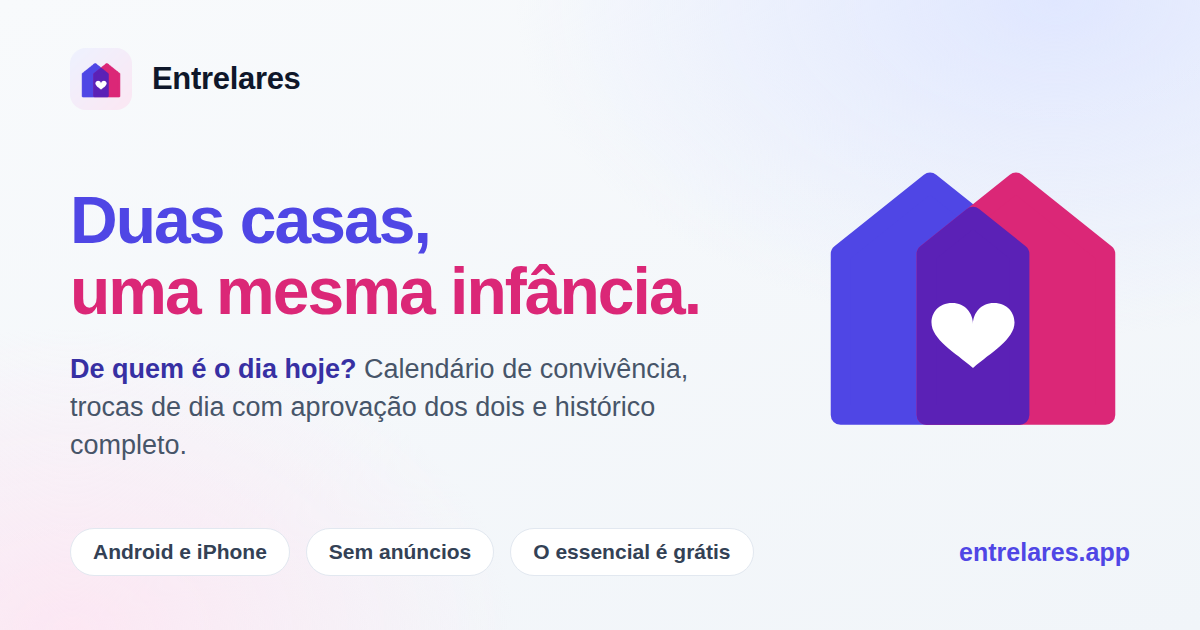
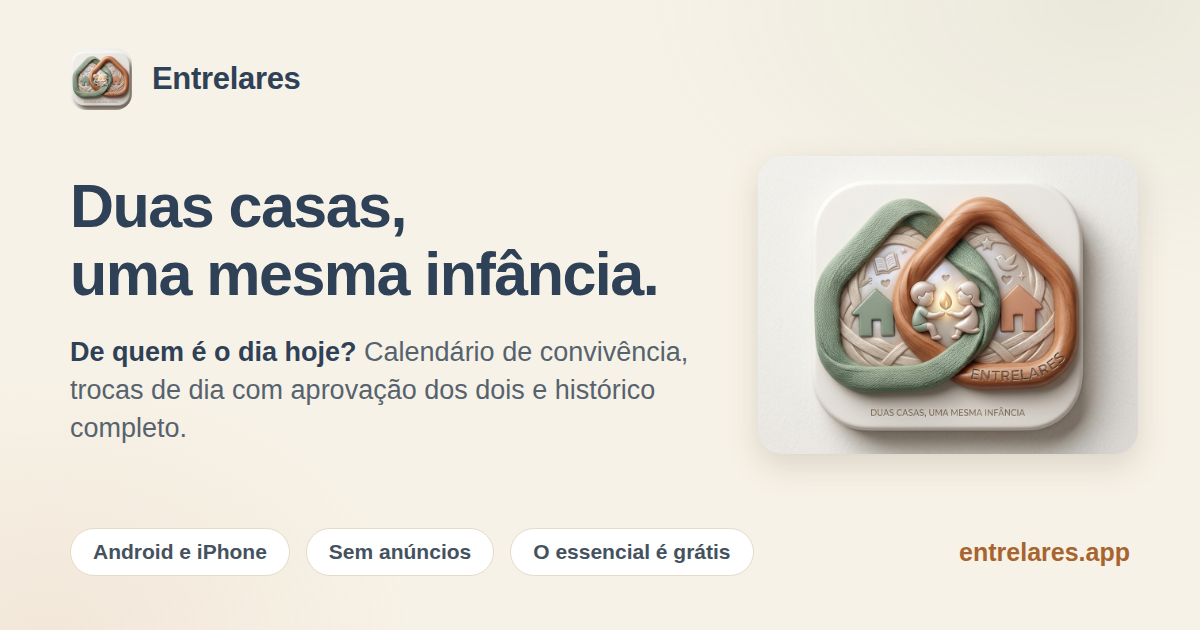
feat(marca): identidade visual oficial — o Emblema Entrelares (F-54)
A arte final aprovada pelo owner (gerada por IA a partir dos conceitos "O
Laço"/"Emblema") vira o master da identidade do site: dois anéis-casa
entrelaçados como elos — sálvia (tecido) e terracota (madeira) — sobre placa
squircle creme, com casinhas em relevo, duas crianças acendendo uma chama na
junção, "ENTRELARES" gravado e o tagline na placa.

- assets-src/brand-emblema.png: master oficial (sem fonte vetorial —
  mudanças pedem nova geração; o repo do app carrega cópia própria em
  store/)
- assets-src/brand-icons.py: derivação reproduzível de favicon.png,
  icon-192.png e icon-512.png (recorte quadrado 730px centrado na placa)
- Banners OG PT/EN re-renderizados com a arte emoldurada (cartão com sombra
  sobre o layout creme/navy, tagline como headline, chips e domínio)
- Substitui o gerador vetorial assets-src/icon-entrelares.html desta mesma
  entrega; ?v=5 nos refs de ícone e og:image?v=2 seguem valendo

Backlog: F-54

diff --git a/assets-src/og-cover-en.html b/assets-src/og-cover-en.html
@@ -6,15 +6,19 @@
 <!--
   L-16/F-54 — generator for public/og-cover-en.png (the English social-sharing banner).
 
-  New visual identity (F-54): light theme, the two-houses mark and the brand tagline
-  as the headline. The <g id="mark"> block is duplicated from icon-entrelares.html —
-  keep them identical when the mark changes. The brand-row icon is the RENDERED
-  public/icon-192.png, so it always matches the shipped icon.
+  Identity "O Emblema" (F-54): the official brand artwork (assets-src/
+  brand-emblema.png, AI-generated, approved by the owner — no vector source) shown
+  as a framed card on the cream layout, navy #2F4156 for text. The card's
+  background-size/position crop the source's (219,0)-(1178,752) window; recompute
+  them if the artwork or the card size changes (bg-size = 1380*W/959, bg-pos-x =
+  -219*W/959). The brand-row icon is the RENDERED public/icon-192.png, so it always
+  matches the shipped icon (see assets-src/brand-icons.py). The PT-BR banner
+  (public/og-cover.png, og-cover.html) carries Portuguese text, so reusing it on
+  /en/ would show a Portuguese preview to exactly the reader the English page
+  exists for. (The artwork itself carries the PT tagline engraved — it is the brand
+  plaque, kept identical in both banners on purpose.)
 
   NOT served: this file lives in assets-src/, like the lead-magnet PDF generator.
-  The PT-BR banner (public/og-cover.png, og-cover.html) carries Portuguese text, so
-  reusing it on /en/ would show a Portuguese preview to exactly the reader the
-  English page exists for.
 
   Render with headless Chrome/Edge at the Open Graph size (1200x630):
 
@@ -31,19 +35,18 @@
     python3 -c "from PIL import Image; Image.open('/tmp/shot.png').crop((0,0,1200,630))\
     .convert('RGB').save('public/og-cover-en.png', optimize=True)"
 
-  Re-render whenever the English hero copy or the mark changes.
+  Re-render whenever the English hero copy or the artwork changes.
 -->
 <style>
   * { margin: 0; padding: 0; box-sizing: border-box; }
   html, body { width: 1200px; height: 630px; overflow: hidden; }
   body {
     font-family: "Segoe UI", "Liberation Sans", system-ui, -apple-system, Roboto, Helvetica, Arial, sans-serif;
-    background: #f8fafc;
+    background: #f7f2e7;
     background-image:
-      radial-gradient(900px 560px at 88% 0%, #e0e7ff 0%, rgba(224,231,255,0) 60%),
-      radial-gradient(760px 520px at 6% 100%, #fce7f3 0%, rgba(252,231,243,0) 58%),
-      linear-gradient(160deg, #f8fafc 0%, #f1f5f9 100%);
-    color: #0f172a;
+      radial-gradient(760px 480px at 92% 0%, rgba(118,143,122,0.10) 0%, rgba(118,143,122,0) 60%),
+      radial-gradient(640px 440px at 4% 100%, rgba(212,160,129,0.14) 0%, rgba(212,160,129,0) 58%);
+    color: #2f4156;
     padding: 48px 70px 54px;
     position: relative;
   }
@@ -54,48 +57,40 @@
   .brand img { width: 62px; height: 62px; border-radius: 16px; display: block; }
   .brand span { font-size: 31px; font-weight: 700; letter-spacing: -0.01em; }
 
-  .mid { position: absolute; top: 185px; left: 70px; right: 460px; }
+  .mid { position: absolute; top: 172px; left: 70px; right: 470px; }
   h1 {
-    font-size: 66px; font-weight: 800; line-height: 1.08; letter-spacing: -0.03em;
-    margin-bottom: 22px;
+    font-size: 61px; font-weight: 800; line-height: 1.12; letter-spacing: -0.025em;
+    color: #2f4156; margin-bottom: 24px;
   }
-  h1 .homes { color: #4f46e5; }
-  h1 .childhood { color: #db2777; }
-  .sub { font-size: 27px; line-height: 1.42; color: #475569; }
-  .sub b { color: #3730a3; font-weight: 700; }
+  .sub { font-size: 27px; line-height: 1.42; color: #56636e; }
+  .sub b { color: #2f4156; font-weight: 700; }
 
-  .art { position: absolute; top: 168px; right: 62px; }
-  .art svg { width: 330px; height: 272px; display: block; }
+  /* the brand plaque, framed: source window (219,0)-(1178,752) of the 1380px art */
+  .art {
+    position: absolute; top: 156px; right: 62px;
+    width: 380px; height: 298px;
+    border-radius: 24px; overflow: hidden;
+    box-shadow: 0 12px 32px rgba(93, 79, 54, 0.18);
+    background: url(brand-emblema.png) no-repeat #eeece7;
+    background-size: 547px auto;
+    background-position: -87px 0;
+  }
 
   .foot { position: absolute; bottom: 54px; left: 70px; right: 70px;
           display: flex; align-items: center; gap: 16px; }
   .chip {
     background: #ffffff;
-    border: 1px solid #e2e8f0;
+    border: 1px solid #e4dcc8;
     border-radius: 999px;
     padding: 11px 22px;
     font-size: 21px;
     font-weight: 600;
-    color: #334155;
+    color: #44525e;
   }
-  .domain { margin-left: auto; font-size: 25px; font-weight: 700; color: #4f46e5; }
+  .domain { margin-left: auto; font-size: 25px; font-weight: 700; color: #a8642f; }
 </style>
 </head>
 <body>
-
-<svg width="0" height="0" style="position:absolute">
-  <defs>
-    <!-- keep identical to assets-src/icon-entrelares.html -->
-    <g id="mark" stroke-linejoin="round">
-      <path d="M108 210 L208 130 L308 210 L308 390 L108 390 Z" fill="#4f46e5" stroke="#4f46e5" stroke-width="22"/>
-      <path d="M204 210 L304 130 L404 210 L404 390 L204 390 Z" fill="#db2777" stroke="#db2777" stroke-width="22"/>
-      <path d="M204 210 L256 168.4 L308 210 L308 390 L204 390 Z" fill="#5b21b6" stroke="#5b21b6" stroke-width="22"/>
-      <g transform="translate(256,262) scale(1.45)">
-        <path d="M0 18 C 0 10 -6 2 -16 2 C -27 2 -32 10 -32 17 C -32 30 -14 40 0 52 C 14 40 32 30 32 17 C 32 10 27 2 16 2 C 6 2 0 10 0 18 Z" fill="#ffffff"/>
-      </g>
-    </g>
-  </defs>
-</svg>
 
 <div class="brand">
   <img src="../public/icon-192.png" alt="" />
@@ -103,13 +98,11 @@
 </div>
 
 <div class="mid">
-  <h1><span class="homes">Two homes,</span><br /><span class="childhood">one childhood.</span></h1>
+  <h1>Two homes,<br />one childhood.</h1>
   <p class="sub"><b>Whose day is it today?</b> A shared parenting calendar, day swaps approved by both, and a history nobody can erase.</p>
 </div>
 
-<div class="art">
-  <svg viewBox="86 114 340 304"><use href="#mark"/></svg>
-</div>
+<div class="art"></div>
 
 <div class="foot">
   <span class="chip">Android &amp; iPhone</span>

diff --git a/assets-src/og-cover.html b/assets-src/og-cover.html
@@ -6,12 +6,14 @@
 <!--
   F-54 — generator for public/og-cover.png (the PT-BR social-sharing banner).
 
-  New visual identity (F-54): light theme, the two-houses mark and the brand tagline
-  as the headline. Replaces the old dark-navy banner that still said "Guarda
-  Compartilhada" (which, until this file, had no generator in the repo). The
-  <g id="mark"> block is duplicated from icon-entrelares.html — keep them identical
-  when the mark changes. The brand-row icon is the RENDERED public/icon-192.png, so
-  it always matches the shipped icon. The English sibling is og-cover-en.html.
+  Identity "O Emblema" (F-54): the official brand artwork (assets-src/
+  brand-emblema.png, AI-generated, approved by the owner — no vector source) shown
+  as a framed card on the cream layout, navy #2F4156 for text. The card's
+  background-size/position crop the source's (219,0)-(1178,752) window; recompute
+  them if the artwork or the card size changes (bg-size = 1380*W/959, bg-pos-x =
+  -219*W/959). The brand-row icon is the RENDERED public/icon-192.png, so it always
+  matches the shipped icon (see assets-src/brand-icons.py). The English sibling is
+  og-cover-en.html.
 
   NOT served: this file lives in assets-src/, like the lead-magnet PDF generator.
 
@@ -30,19 +32,18 @@
     python3 -c "from PIL import Image; Image.open('/tmp/shot.png').crop((0,0,1200,630))\
     .convert('RGB').save('public/og-cover.png', optimize=True)"
 
-  Re-render whenever the hero copy or the mark changes.
+  Re-render whenever the hero copy or the artwork changes.
 -->
 <style>
   * { margin: 0; padding: 0; box-sizing: border-box; }
   html, body { width: 1200px; height: 630px; overflow: hidden; }
   body {
     font-family: "Segoe UI", "Liberation Sans", system-ui, -apple-system, Roboto, Helvetica, Arial, sans-serif;
-    background: #f8fafc;
+    background: #f7f2e7;
     background-image:
-      radial-gradient(900px 560px at 88% 0%, #e0e7ff 0%, rgba(224,231,255,0) 60%),
-      radial-gradient(760px 520px at 6% 100%, #fce7f3 0%, rgba(252,231,243,0) 58%),
-      linear-gradient(160deg, #f8fafc 0%, #f1f5f9 100%);
-    color: #0f172a;
+      radial-gradient(760px 480px at 92% 0%, rgba(118,143,122,0.10) 0%, rgba(118,143,122,0) 60%),
+      radial-gradient(640px 440px at 4% 100%, rgba(212,160,129,0.14) 0%, rgba(212,160,129,0) 58%);
+    color: #2f4156;
     padding: 48px 70px 54px;
     position: relative;
   }
@@ -53,48 +54,40 @@
   .brand img { width: 62px; height: 62px; border-radius: 16px; display: block; }
   .brand span { font-size: 31px; font-weight: 700; letter-spacing: -0.01em; }
 
-  .mid { position: absolute; top: 185px; left: 70px; right: 460px; }
+  .mid { position: absolute; top: 172px; left: 70px; right: 470px; }
   h1 {
-    font-size: 66px; font-weight: 800; line-height: 1.08; letter-spacing: -0.03em;
-    margin-bottom: 22px;
+    font-size: 61px; font-weight: 800; line-height: 1.12; letter-spacing: -0.025em;
+    color: #2f4156; margin-bottom: 24px;
   }
-  h1 .casas { color: #4f46e5; }
-  h1 .infancia { color: #db2777; }
-  .sub { font-size: 27px; line-height: 1.42; color: #475569; }
-  .sub b { color: #3730a3; font-weight: 700; }
+  .sub { font-size: 27px; line-height: 1.42; color: #56636e; }
+  .sub b { color: #2f4156; font-weight: 700; }
 
-  .art { position: absolute; top: 168px; right: 62px; }
-  .art svg { width: 330px; height: 272px; display: block; }
+  /* the brand plaque, framed: source window (219,0)-(1178,752) of the 1380px art */
+  .art {
+    position: absolute; top: 156px; right: 62px;
+    width: 380px; height: 298px;
+    border-radius: 24px; overflow: hidden;
+    box-shadow: 0 12px 32px rgba(93, 79, 54, 0.18);
+    background: url(brand-emblema.png) no-repeat #eeece7;
+    background-size: 547px auto;
+    background-position: -87px 0;
+  }
 
   .foot { position: absolute; bottom: 54px; left: 70px; right: 70px;
           display: flex; align-items: center; gap: 16px; }
   .chip {
     background: #ffffff;
-    border: 1px solid #e2e8f0;
+    border: 1px solid #e4dcc8;
     border-radius: 999px;
     padding: 11px 22px;
     font-size: 21px;
     font-weight: 600;
-    color: #334155;
+    color: #44525e;
   }
-  .domain { margin-left: auto; font-size: 25px; font-weight: 700; color: #4f46e5; }
+  .domain { margin-left: auto; font-size: 25px; font-weight: 700; color: #a8642f; }
 </style>
 </head>
 <body>
-
-<svg width="0" height="0" style="position:absolute">
-  <defs>
-    <!-- keep identical to assets-src/icon-entrelares.html -->
-    <g id="mark" stroke-linejoin="round">
-      <path d="M108 210 L208 130 L308 210 L308 390 L108 390 Z" fill="#4f46e5" stroke="#4f46e5" stroke-width="22"/>
-      <path d="M204 210 L304 130 L404 210 L404 390 L204 390 Z" fill="#db2777" stroke="#db2777" stroke-width="22"/>
-      <path d="M204 210 L256 168.4 L308 210 L308 390 L204 390 Z" fill="#5b21b6" stroke="#5b21b6" stroke-width="22"/>
-      <g transform="translate(256,262) scale(1.45)">
-        <path d="M0 18 C 0 10 -6 2 -16 2 C -27 2 -32 10 -32 17 C -32 30 -14 40 0 52 C 14 40 32 30 32 17 C 32 10 27 2 16 2 C 6 2 0 10 0 18 Z" fill="#ffffff"/>
-      </g>
-    </g>
-  </defs>
-</svg>
 
 <div class="brand">
   <img src="../public/icon-192.png" alt="" />
@@ -102,13 +95,11 @@
 </div>
 
 <div class="mid">
-  <h1><span class="casas">Duas casas,</span><br /><span class="infancia">uma mesma infância.</span></h1>
+  <h1>Duas casas,<br />uma mesma infância.</h1>
   <p class="sub"><b>De quem é o dia hoje?</b> Calendário de convivência, trocas de dia com aprovação dos dois e histórico completo.</p>
 </div>
 
-<div class="art">
-  <svg viewBox="86 114 340 304"><use href="#mark"/></svg>
-</div>
+<div class="art"></div>
 
 <div class="foot">
   <span class="chip">Android e iPhone</span>

diff --git a/assets-src/brand-icons.py b/assets-src/brand-icons.py
@@ -1,0 +1,33 @@
+#!/usr/bin/env python3
+"""F-54 — derive the site icons from the official Entrelares brand artwork.
+
+The MASTER is assets-src/brand-emblema.png (1380x752): the 3D emblem the owner
+approved — two interlocked house-rings (sage fabric + terracotta wood) on a white
+squircle plaque, children lighting a flame at the junction, embossed houses,
+"ENTRELARES" engraved and the tagline "DUAS CASAS, UMA MESMA INFANCIA" on the
+plaque. Generated by an external AI tool; there is no vector source — ask for a
+new generation to change the art, then re-run this script.
+
+The plaque sits at (352,62)-(1046,690); the icon is a 730x730 crop centred on it:
+(334,11)-(1064,741).
+
+Usage (needs Pillow):  python3 assets-src/brand-icons.py
+
+Outputs:  public/favicon.png (96)   public/icon-192.png   public/icon-512.png
+
+The app repo carries its own copy of the master and of this script
+(store/brand-emblema.png + store/brand-icons.py, which also builds the maskable
+variants) — regenerate BOTH repos when the artwork changes.
+"""
+from PIL import Image
+from pathlib import Path
+
+ROOT = Path(__file__).resolve().parent.parent
+CROP = (334, 11, 1064, 741)  # 730x730 square centred on the plaque
+
+src = Image.open(ROOT / "assets-src" / "brand-emblema.png").convert("RGB")
+square = src.crop(CROP)
+
+for size, name in ((96, "favicon.png"), (192, "icon-192.png"), (512, "icon-512.png")):
+    square.resize((size, size), Image.LANCZOS).save(ROOT / "public" / name, optimize=True)
+    print("ok", name)
